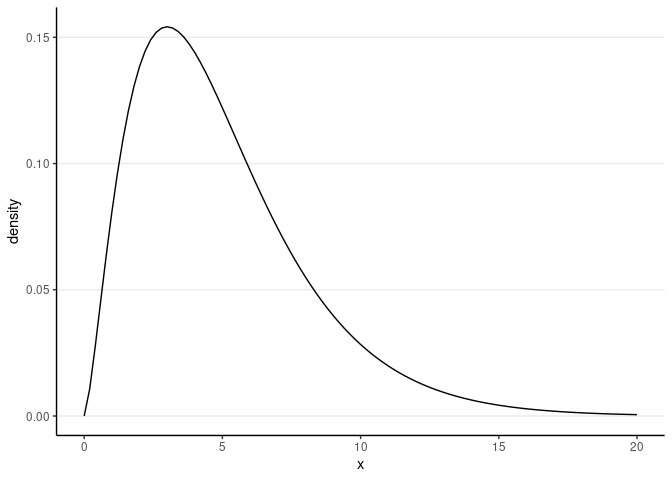
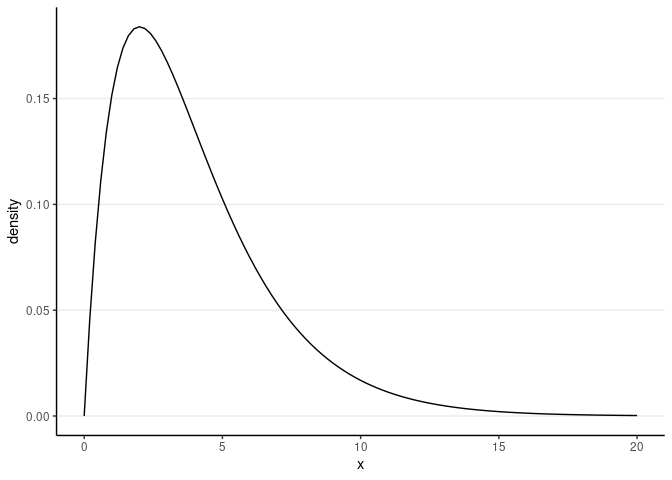
Update MD for Example 1

diff --git a/simulate_mean_median.md b/simulate_mean_median.md
@@ -1,7 +1,7 @@
 Simulating Means and Medians
 ================
-Mark Lai
-April 26, 2019, last updated on June 06, 2021
+Mark Lai, Yichi Zhang
+April 26, 2019, last updated on June 14, 2021
 
 -   [Simulating Means and Medians](#simulating-means-and-medians)
     -   [Central Limit Theorem (CLT)](#central-limit-theorem-clt)
@@ -39,8 +39,7 @@ the sample mean, then
 
 Let’s imagine that a researcher is interested in studying the house size
 in the Orlando, Florida, measured in 1,000 sq ft. Hypothetically, the
-researcher would like to assume assume that the population house sizes
-follow a
+researcher would like to assume that the population house sizes follow a
 ![\\chi^2](https://latex.codecogs.com/png.latex?%5Cchi%5E2 "\chi^2")
 distribution with four degrees of freedom, and would like to see how
 random samples of different houses would behave. If we use
@@ -51,14 +50,15 @@ variable for house sizes, the population can be described as
 
 ``` r
 ggplot(tibble(x = c(0, 20)), aes(x = x)) + 
-  stat_function(fun = dchisq, args = list(df = 5), bw = "SJ") + 
+  stat_function(fun = dchisq, args = list(df = 4), bw = "SJ") + 
   labs(y = "density")
 ```
 
     ># Warning: Ignoring unknown parameters: bw
 
-![](simulate_mean_median_files/figure-gfm/chisq4-1.png)<!-- --> As can
-be seen, the typical house size is around 2,000 to 5,000 sq ft.
+![](simulate_mean_median_files/figure-gfm/chisq4-1.png)<!-- -->
+
+ As can be seen, the typical house size is around 2,000 to 5,000 sq ft.
 
 It is known that for a
 ![\\chi^2(4)](https://latex.codecogs.com/png.latex?%5Cchi%5E2%284%29 "\chi^2(4)")
